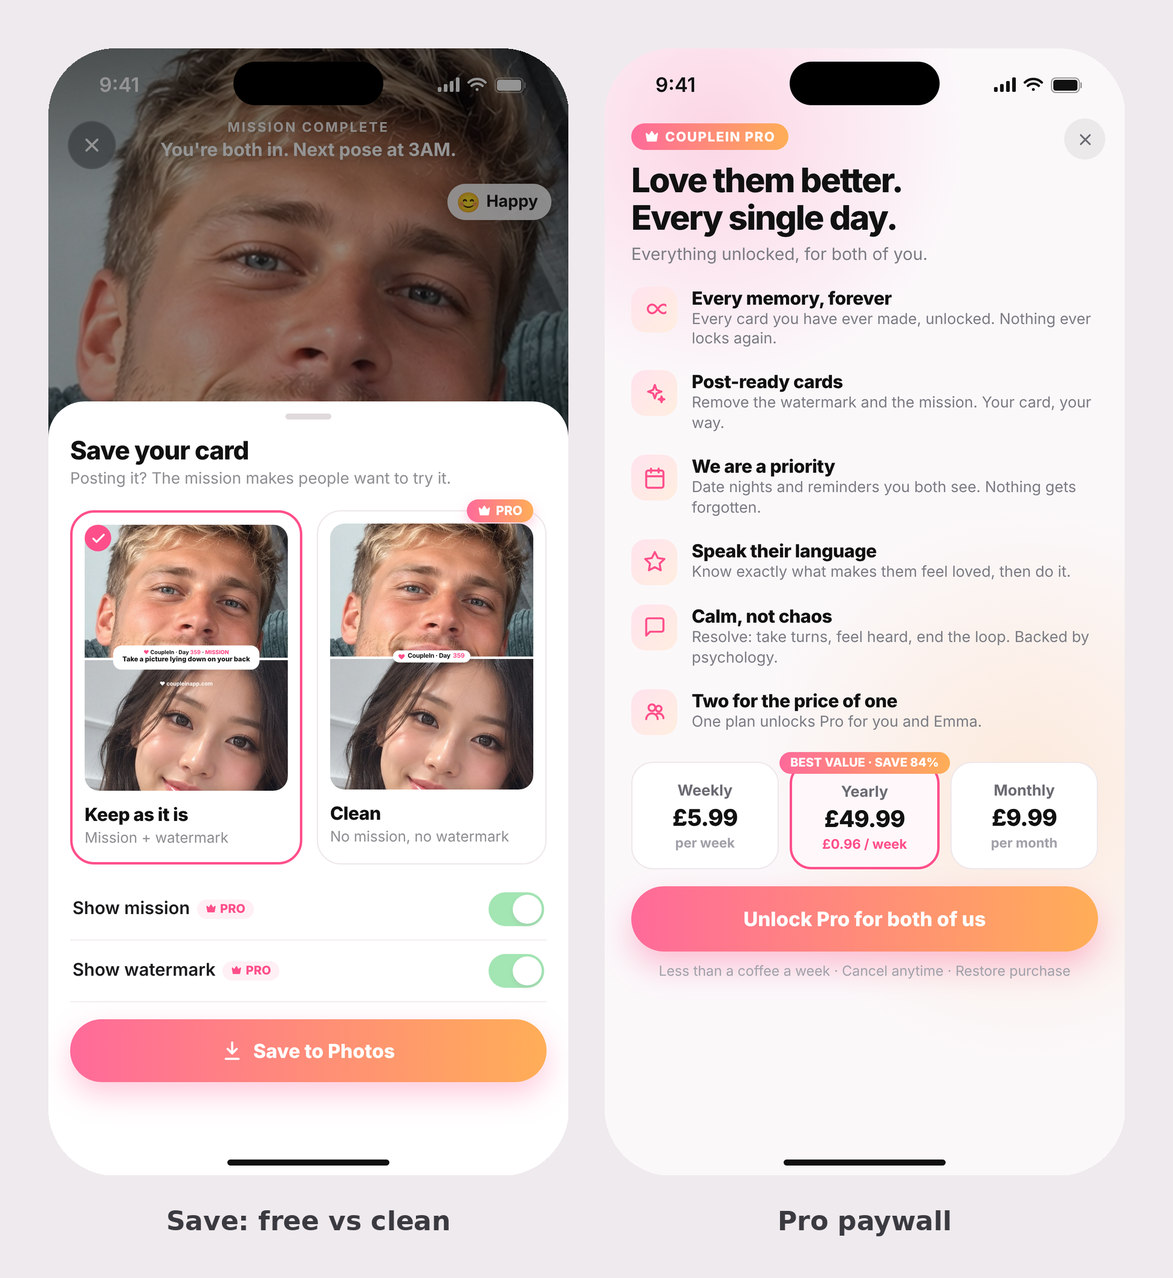
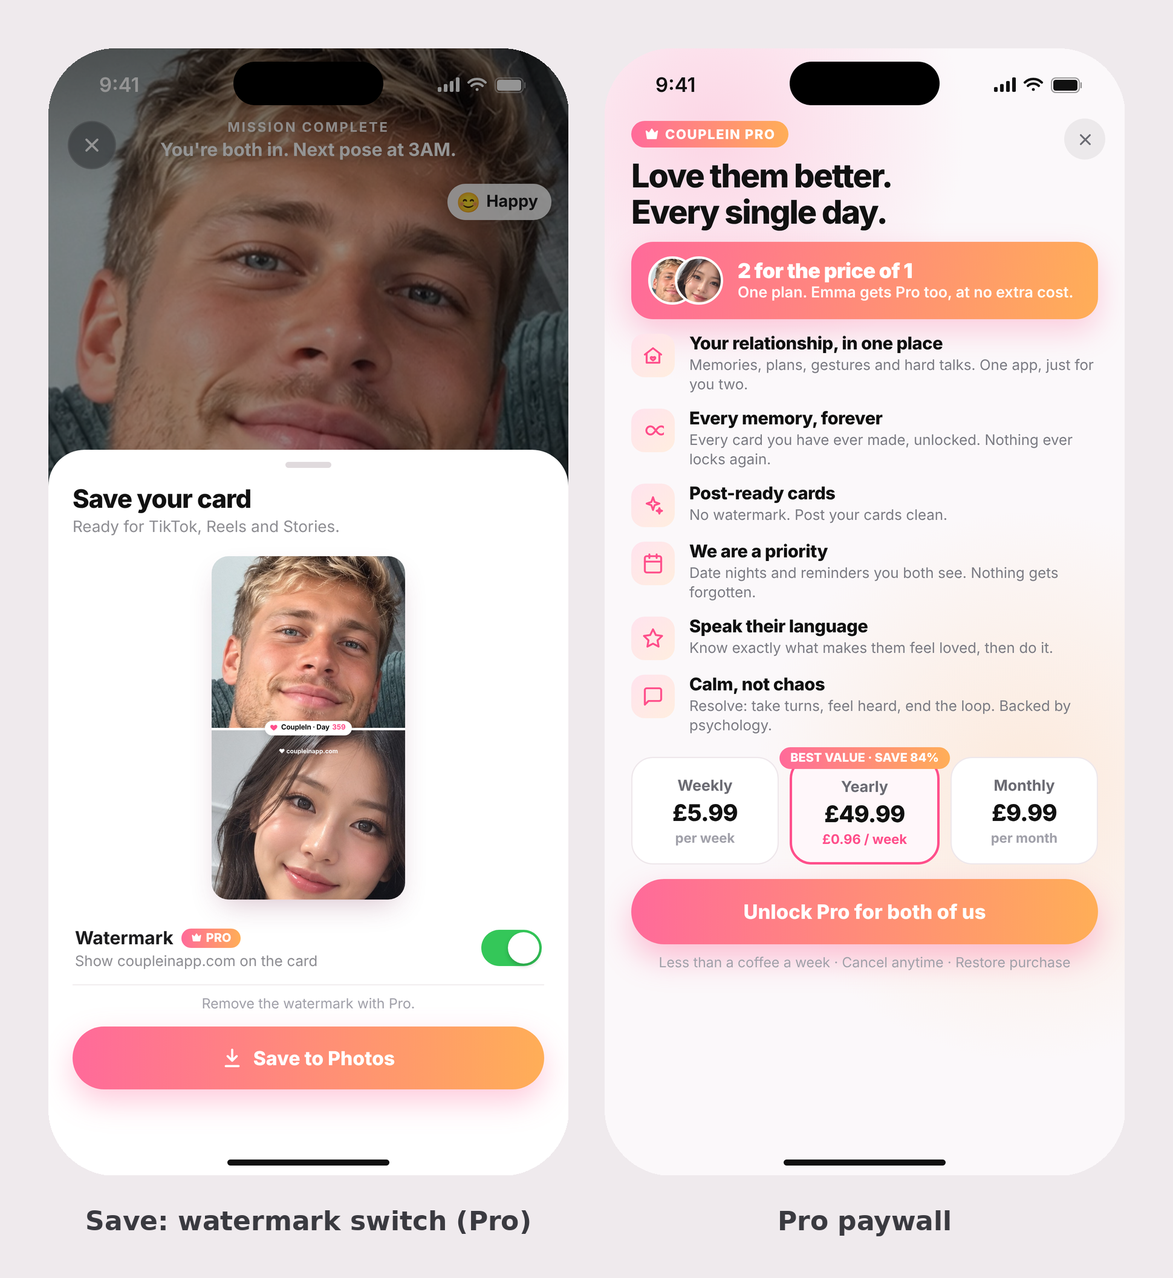
Final findings: Snapchat-style mission bar (camera only), watermark-only Save switch, paywall v2 (2-for-1, one place), Bond merged into developer spec; remove superseded files
Claude-Session: https://claude.ai/code/session_01437rANtd5MAYdKDkxZsNAs

diff --git a/final-plan/Final-Plan-Developer.md b/final-plan/Final-Plan-Developer.md
@@ -14,7 +14,7 @@ Mission is the MVP: one pose a day, both partners send a selfie, a 3-2-1 reveal 
 - Save card and "Who did it better?" (opens the share sheet).
 - A Week 1 video generated on the phone after the 7th completed pair.
 - Photos stored on the phone, last 14 days viewable on Free, with a short-lived server relay to deliver photos between phones.
-- Gated placeholder pages for Calendar, Brownies and Resolve, and a redesigned pricing page.
+- Bond, the free daily-question page (section 8). Gated placeholder pages for Calendar, Brownies and Resolve, and a redesigned pricing page.
 
 **Cut from the MVP (do not build)**
 
@@ -29,7 +29,7 @@ Terms: **Relationship Day Count** is days since the start date entered by the fi
 
 Mission replaces Mood Sync as the centre of the app and is a free feature (with Bond, below), with no limit on daily use (the habit is the product). The only thing gated is viewing old photos: Free can open the last 14 days; anything older is Pro. The app opens on the camera, or on today's card if today's selfie is already sent.
 
-**Tab bar (left to right):** Calendar (Pro), Bond (free), Mission (free, centre, raised camera button), Brownies (Pro), Resolve (Pro). Settings moves out of the tab bar to a gear icon at the top right of every screen. Pro tabs keep the pink lock badge. The Mission (today's pose, camera, reveal) lives in the centre Mission button. **Bond** is a free page: a daily question, an "Ask another" tab with category chips (Fun, Go deeper, Would you rather, Our future, Memories), and a reveal where both partners' typed answers (200 characters) show together once both have answered. No chat, no history in v1. Question bank spec: see the "CoupleIn Bond: Question Bank" doc.
+**Tab bar (left to right):** Calendar (Pro), Bond (free), Mission (free, centre, raised camera button), Brownies (Pro), Resolve (Pro). Settings moves out of the tab bar to a gear icon at the top right of every screen. Pro tabs keep the pink lock badge. The Mission (today's pose, camera, reveal) lives in the centre Mission button. **Bond** is a free page: a daily question, an "Ask another" tab with category chips (Fun, Go deeper, Would you rather, Our future, Memories), and a reveal where both partners' typed answers (200 characters) show together once both have answered. No chat, no history in v1. Full Bond spec and screens in section 8. Question bank spec: see the "CoupleIn Bond: Question Bank" doc.
 
 | Area | Free | Pro |
 | --- | --- | --- |
@@ -49,18 +49,18 @@ Mission replaces Mood Sync as the centre of the app and is a free feature (with 
 
 Redesign the pricing page to show all three plans, with Yearly highlighted. **Open:** whether Pro is per person or per couple (recommended: per couple).
 
-**Pro paywall.** Built as an offer so good that not buying feels silly. Header pill "COUPLEIN PRO", title "Love them better. Every single day.", subtitle "Everything unlocked, for both of you." Then the value stack, each with an icon, a bold line and one sentence:
+**Pro paywall.** Built as an offer so good that not buying feels silly. Header pill "COUPLEIN PRO", title "Love them better. Every single day." Directly under the title, the most visible element on the page: a full-width pink banner **"2 for the price of 1 · One plan. [Partner] gets Pro too, at no extra cost."** with both partners' profile photos. Then the value stack, each with an icon, a bold line and one sentence:
 
-1. **Every memory, forever.** Every card you have ever made, unlocked. Nothing ever locks again.
-2. **Post-ready cards.** Remove the watermark and the mission. Your card, your way.
-3. **We are a priority.** Date nights and reminders you both see. Nothing gets forgotten. (Calendar)
-4. **Speak their language.** Know exactly what makes them feel loved, then do it. (Brownies)
-5. **Calm, not chaos.** Resolve: take turns, feel heard, end the loop. Backed by psychology.
-6. **Two for the price of one.** One plan unlocks Pro for you and your partner.
+1. **Your relationship, in one place.** Memories, plans, gestures and hard talks. One app, just for you two.
+2. **Every memory, forever.** Every card you have ever made, unlocked. Nothing ever locks again.
+3. **Post-ready cards.** No watermark. Post your cards clean.
+4. **We are a priority.** Date nights and reminders you both see. Nothing gets forgotten. (Calendar)
+5. **Speak their language.** Know exactly what makes them feel loved, then do it. (Brownies)
+6. **Calm, not chaos.** Resolve: take turns, feel heard, end the loop. Backed by psychology.
 
-Plans side by side: Weekly £5.99, **Yearly £49.99** (pre-selected, tag "BEST VALUE · SAVE 84%", "£0.96 / week"), Monthly £9.99. Button "Unlock Pro for both of us". Small print "Less than a coffee a week · Cancel anytime · Restore purchase". Rules: no unverified statistics on this screen (add real reviews and couple counts once they exist); the Week 1 video is not part of the offer for now; "Two for the price of one" and "for both of us" depend on Pro being per couple (open item 2).
+Plans side by side: Weekly £5.99, **Yearly £49.99** (pre-selected, tag "BEST VALUE · SAVE 84%", "£0.96 / week"), Monthly £9.99. Button "Unlock Pro for both of us". Small print "Less than a coffee a week · Cancel anytime · Restore purchase". Rules: no unverified statistics on this screen (add real reviews and couple counts once they exist); the Week 1 video is not part of the offer for now; "2 for the price of 1" and "for both of us" depend on Pro being per couple (open item 2).
 
-![Save sheet (free vs clean) and the Pro paywall](images/save-and-paywall.png)
+![Save sheet (watermark switch, Pro) and the Pro paywall](images/save-and-paywall.png)
 
 **Gender at sign-up.** Asked on the name step, only to choose which placeholder is shown on the locked tabs. Options: Woman, Man, Prefer not to say (neutral version, shows either). The field is optional.
 
@@ -138,13 +138,13 @@ The promise made before any photo is taken: neither partner can see the other's 
 
 **Camera screen.** Full screen, tab bar hidden, X at top-left (only after the first selfie is sent), front camera, saved photo not mirrored. Layout follows the "First selfie" mock below: the photo fills the top half, the white line carries a "Day N together" pill, the partner's panel (locked, or invite) sits below.
 
-**Mission screen: three states.** The centre Mission tab opens straight into this full-screen camera. No tab bar, no header bar: the camera runs edge to edge. Your live camera fills the top half, the partner's half fills the bottom, the white line between them carries the "CoupleIn · Day N" pill. Top-left X (back to the app), top-right flip camera (becomes Retake after the shot), today's mission written across the top ("Today's mission" + the pose, for example "Take a picture lying down on your back."). Bottom row in every camera state: "Our cards" button (bottom-left: a clean stacked-cards icon in a round button with the label "Our cards", same style as Flip; opens the gallery), shutter (centre), 5s timer (bottom-right, labelled "Timer").
+**Mission screen: three states.** The centre Mission tab opens straight into this full-screen camera. No tab bar, no header bar: the camera runs edge to edge. Your live camera fills the top half, the partner's half fills the bottom, the white line between them carries the "CoupleIn · Day N" pill. Top-left X (back to the app), top-right flip camera (becomes Retake after the shot), today's mission shown as a Snapchat-style caption bar across the live camera (see Mission on the camera). Bottom row in every camera state: "Our cards" button (bottom-left: a clean stacked-cards icon in a round button with the label "Our cards", same style as Flip; opens the gallery), shutter (centre), 5s timer (bottom-right, labelled "Timer").
 
 1. **Partner has not sent.** Partner half is a soft pink-to-peach gradient (never black) with the partner's profile photo in a gradient ring, "Emma hasn't sent hers yet", "Go first. She can't see yours until she sends hers." and a white "Nudge Emma" button (sends a push; limit one nudge per 3 hours).
 2. **Partner has sent.** Partner half shows her photo heavily blurred with a frosted lock: "Emma sent hers" and "Send yours to reveal it · 8:14 AM". The blur is a local placeholder; the real photo is only released by the relay after you send (section 6).
 3. **Both sent (revealed, after the 3-2-1 countdown).** Both photos clean with their captions. Top reads "Mission complete / You're both in. Next pose at 3AM." Actions sit in a white strip below the photos and never cover them: Our cards icon, Save, Who did it better?.
 
-![Mission screen: she hasn't sent, she has sent with the timer on, after the shot (Retake / Send), both sent, and Our cards](images/mission-screens.png)
+![Mission screen: she hasn't sent, she has sent with the timer on, after the shot (mission gone, Retake / Send), both sent, and Our cards](images/mission-screens.png)
 
 **Retake.** After the shutter, the camera freezes on the photo and the controls change: the flip button at the top-right becomes a white **Retake** button, and the shutter becomes a pink **Send** button (arrow). Retake goes back to the live camera and discards the photo; retakes are unlimited before sending. After sending, a "Retake" link stays available until the partner has sent: the new photo replaces the old one on the relay and the old copy is deleted. Once both have sent (the reveal has happened) the photo is final. The timer setting, caption, mood and pose stay the same across retakes.
 
@@ -157,7 +157,11 @@ The promise made before any photo is taken: neither partner can see the other's 
 
 **Field of view (not too close).** Open the front camera at its widest setting: on iPhone use the widest available zoom factor of the front camera (the "zoomed out" view on iPhone 11 and later), on Android pick the widest front lens / minimum zoom ratio in CameraX. Never default to a cropped or zoomed view, and never crop the photo to fit the half-screen; fill the frame from the widest image. Optional: on-device face detection shows a small "Move the phone back a little" hint if a face fills more than about 60% of the frame (hint only, never blocks the shutter). For poses that need distance, the 5s timer is the answer.
 
-**Pose prompt.** Written across the top of the live camera under "Today's mission", for example "Take a picture lying down on your back." The pose stays at the top of the camera and is not copied into the caption (the caption is the user's own, optional). The same prompt is in the daily notification.
+**Mission on the camera (Snapchat-style).** Today's mission is shown only while the user is taking the picture, as a Snapchat-style caption bar across the live camera: full width, black at about 50% opacity, white centred text, for example "🎯 Take a picture lying down on your back". It sits just under the X and flip buttons so it covers as little of the face as possible. The same text is in the daily notification.
+
+- It is part of the camera screen only. It is **never** in the photo, never on the card, and never on the share image.
+- It disappears the moment the shutter fires (or the 5s timer reaches zero) and stays hidden on the Retake / Send preview. Retake brings it back with the live camera.
+- Because the mission is never on the card, there is nothing to remove when saving. The only thing a user can turn off when saving is the watermark (Pro).
 
 **5-second timer (hands-free). An optional tap, never automatic.** Many poses need both hands or the phone held at a distance, so the camera has a round "5s" timer button at the bottom-right, opposite Our cards, easy to reach with the thumb. The user chooses, every time, whether to use it. It is OFF by default and normal photos are unchanged: tap the shutter, photo is taken instantly.
 
@@ -178,20 +182,15 @@ After the photo the timer switches itself back off, so the next photo is a norma
 **Share card.** 1080 x 1920 (9:16) PNG, built on the phone when Save or Share is tapped, never stored. Your selfie on top, partner's below, an 18px white line between. Designed for TikTok, Reels and Stories, the number one way the app spreads:
 
 - **Safe zone.** Those apps cover the top ~12%, the bottom ~22% and the right edge from ~40% to ~78% of the frame with their buttons and captions. Nothing important goes there.
-- **Mission badge (free).** A white rounded badge centred on the white line: "♥ CoupleIn · Day N · MISSION" on the first row, the mission in bold below ("Take a picture lying down on your back"). The centre of the frame is never covered by any app, and the mission is the hook that makes viewers want to try it. Because it sits across the line it only touches the chin of the top photo and the hair of the bottom one, never the faces. Use on-device face detection: if the badge would cover a face, shrink it to one line.
-- **Watermark (free).** "♥ coupleinapp.com" in small white text just under the badge.
+- **Day pill.** The white "♥ CoupleIn · Day N" pill sits in the centre of the white line on every card, free and Pro. The centre is never covered by any app.
+- **Watermark (free).** "♥ coupleinapp.com" in small white text just under the Day pill. Pro users can turn it off.
 - **Caption + mood.** One pill per photo, left-aligned: top photo about 15% from the top, bottom photo just above the bottom safe line. Only shown if added.
-- **Clean (Pro).** Mission and watermark are two separate Pro switches: either one or both can be removed; the plain "CoupleIn · Day N" pill stays on the line.
-- The camera's own overlays (X, flip, timer, the mission text at the top of the camera) are never part of the photo or the card. The badge is drawn fresh when the card is exported.
+- **No mission on the card.** The mission only appears on the live camera and is gone once the photo is taken.
+- The camera's own overlays (X, flip, timer, the mission bar) are never part of the photo or the card.
 
-![Share card, free vs Pro, with the TikTok / Reels / Stories covered areas in pink](images/share-card-safe-zones.png)
+![Share card, free with watermark vs Pro without, with the TikTok / Reels / Stories covered areas in pink](images/share-card-safe-zones.png)
 
-**Save sheet.** Tapping Save opens "Save your card" with a live preview of the card and two switches underneath:
-
-- **Mission** (show today's mission on the card), on by default.
-- **Watermark** (show coupleinapp.com), on by default.
-
-The two switches are **independent of each other**: Pro users can turn off the mission only, the watermark only, or both, and the preview updates instantly. **Both switches are Pro.** Free users see both on, each with a PRO tag; tapping either one opens the paywall, and the card is saved with the mission and the watermark. Small line under the switches: "Turn either one off with Pro. They work separately." Button: "Save to Photos". The same sheet appears before sharing from Who did it better?. The app remembers each Pro user's last choice for next time.
+**Save sheet.** Tapping Save opens "Save your card" ("Ready for TikTok, Reels and Stories") with a live preview of the card and one switch: **Watermark** (show coupleinapp.com on the card), on by default. The switch is **Pro**: Pro users can turn it off and the preview updates instantly; free users see it on with a PRO tag, and tapping it opens the paywall. Line under the switch: "Remove the watermark with Pro." Button: "Save to Photos". The same sheet appears before sharing from Who did it better?. The app remembers each Pro user's last choice. Shown with the paywall in section 2.
 
 **Week 1 video.** Promised on the first reveal screen. Generated on the phone from the first 7 completed pairs (photos are local), about 10 to 15 seconds: each pair cut to a beat with its pose name and "Day N together", ending on a title card with the date range. Delivered when the 7th pair is revealed, with a push: "Your Week 1 video is ready." Free gets it with the watermark and sees "Remove the watermark" as an upgrade. If a couple is slow, send a partial video on day 10 using the pairs that exist.
 
@@ -281,7 +280,91 @@ R2 is preferred because it charges nothing for downloads.
 
 **Analytics (PostHog):** first_selfie_sent, partner_invited, partner_joined, reveal_viewed, card_saved, who_did_it_better_tapped, week1_video_ready, paywall_viewed, plan_started.
 
-## 8. Open items and build checklist
+## 8. Bond (free page)
+
+Bond is the second free feature, next to Mission. Partners answer the same question in text and see each other's answers together once both have answered. There is no chat. The fun comes from good questions and quick reactions (Love, Same, Haha). The whole feature is one loop: ask, answer privately, reveal together, react.
+
+Cut from v1: chat, answer history, double-choice taps, answer matching, a Sunday game, a Spicy category.
+
+**Where it lives.** Bond is the second tab (Calendar (Pro), **Bond**, Mission, Brownies (Pro), Resolve (Pro)). The page header reads "Bond" with the subtitle "Get to know [Partner], every day" and the Settings gear at the top right.
+
+![Bond screens: Today, Answer sheet, Reveal, Ask another](images/bond-screens.png)
+
+| Screen | What it shows | Main action |
+| --- | --- | --- |
+| 1. Today | Segmented control ("Today's question" / "Ask another"). Pink-bordered card with a category chip, the question, and the partner's answer blurred and locked. Below it, an "[Partner] asked you" row for questions the partner sent. | "Answer to see [Partner]'s" |
+| 2. Answer sheet | Bottom sheet "Your answer" with the question, a text box (200 characters, live counter) and a note that the partner has answered. | "Send and see [Partner]'s" |
+| 3. Reveal | Partner's answer and yours, each with reaction chips Love, Same, Haha. A "Both answered" label. A "Want more tonight? Ask another" card at the bottom. | Tap a reaction |
+| 4. Ask another | Chips: Fun, Go deeper, Would you rather, Our future, Memories. A card with one question from the chosen chip and a refresh icon. Below it, "Sent to [Partner] today" with each question's state (Waiting, Both answered). | "Answer and ask [Partner]" |
+
+**Today.** One daily question, the same for both partners, day-agnostic. It changes at 3AM in the couple's shared timezone, the same reset as the Mission pose.
+
+**Answer sheet.** Text only, 200 characters, no empty answers. Once sent, an answer cannot be edited. Placeholder: "Write it how you'd say it to [Partner]".
+
+**Ask another.** The user picks a chip, sees a question, can tap refresh for the next unseen one in that chip, and sends it by answering it. The partner gets it in their "[Partner] asked you" row. Cap: 3 open sent questions per couple at a time (to confirm).
+
+**Rules**
+
+- **Reveal is mutual.** Neither partner sees the other's answer until they have sent their own.
+- **Answers.** Typed text only, 200 characters max, final once sent. Would-you-rather questions are worded so the answer is a typed sentence ("Would you rather we X or Y, and why?").
+- **Reactions.** Love, Same, Haha. One per answer per person, changeable. The partner sees a badge ("[Partner] loved this").
+- **Starting.** Available once the user has sent their first Mission selfie and finished onboarding. The partner does not need to be linked yet.
+- **Partner not joined.** The user can answer; the reveal stays locked until the partner joins and answers.
+- **History.** None in v1. Once both have answered and reacted, the question leaves Today.
+- **Free.** Bond is free for everyone, with no limits.
+
+**Question bank.** Questions come from a large pre-written bank on the server (MongoDB). No AI calls at runtime, so it costs nothing to run. The bank is being written in daily batches of 100 (20 per category) in the doc "CoupleIn Bond: Question Bank".
+
+| Category / chip | Style |
+| --- | --- |
+| Fun | Playful, specific, makes people laugh |
+| Go deeper | Honest but safe, never accusatory |
+| Would you rather | Phrased so the answer is typed, with a "why" |
+| Our future | Concrete shared scenes, not abstract goals |
+| Memories | Specific moments with the partner |
+
+The daily question can come from any category; "Ask another" serves from the chosen chip.
+
+- **Never repeating.** Each couple stores only the IDs of questions they have seen (about 20 to 30 KB at 5,000 questions). Serving always picks the next unseen question.
+- **Size.** 5,000 questions is about 400 to 500 KB of text. The app fetches batches of about 20 per category and caches them, so new questions need no app update.
+- **Running out.** At about 3 questions a day, 3,000 questions last about 2.7 years. After that the oldest return as "Revisit: you answered this a year ago. Has your answer changed?".
+- **Question rules.** Typed answer, gender-neutral, any relationship stage and long-distance, no sexual content, under about 18 words, no generic questions.
+- **Later (not v1).** Couples write their own questions; AI-generated questions saved to the bank.
+
+**Notifications**
+
+| Trigger | Push |
+| --- | --- |
+| New daily question (suggested 7pm local) | "Today's question is here" |
+| Partner answered, user has not | "[Partner] answered. Your turn." |
+| Both answered | "Both answered. See each other's." |
+| Partner sent an "Ask another" question | "[Partner] asked you something" |
+| Partner reacted to the user's answer | "[Partner] loved your answer" (or Same, Haha) |
+
+**Data (per couple)**
+
+- Question bank: id, text, category, active flag.
+- Seen IDs: list of question IDs already served to this couple.
+- Daily question: date, question id.
+- Answers: question id, user id, text (max 200), sent time.
+- Reactions: answer id, user id, type (love, same, haha).
+- Sent questions: question id, sender, state (waiting, both answered).
+
+**Edge cases**
+
+| Case | Behaviour |
+| --- | --- |
+| Partner never answers | User's answer stays sent, reveal stays locked, no expiry in v1 |
+| Both answer at the same moment | Both go straight to Reveal |
+| Different timezones | Daily question changes at 3AM in the shared timezone |
+| Bank exhausted for a chip | Oldest questions return as "Revisit" |
+| Offline | Answer saved on the phone and sent when back online |
+| Partner unlinked | Open questions and answers are removed with the link |
+| Empty or over 200 characters | Send button disabled |
+
+**Bond open items:** cap of 3 open "Ask another" questions; notification time (7pm suggested); what the locked reveal says when the partner has not joined (not drawn yet); whether answers are stored on the server and for how long.
+
+## 9. Open items and build checklist
 
 **To confirm with the founder before building**
 
@@ -304,3 +387,7 @@ R2 is preferred because it charges nothing for downloads.
 - Mission screen in three states with Retake/Send preview, plus the Our cards gallery from local storage, last 14 days open, older cards blurred on-device with a lock and a paywall tap, one continuous grid for Pro.
 - Load the pose list from Final-Plan-Pose-List.xlsx (Pose 1 to 365, no dates).
 - Test with two accounts on two phones, one set to another timezone, covering: both send, one sends, partner never joins, late code entry, app closed mid-countdown, upload failure, 14-day lock.
+- Mission bar on the live camera (Snapchat style), removed the moment the photo is taken; never drawn on the photo or card.
+- Share card export with the social safe zone, the Day pill and the watermark; Save sheet with the single Watermark switch (Pro).
+- Pro paywall with the 2-for-1 banner and the six-line value stack.
+- Bond (section 8): Today, Answer sheet, Reveal, Ask another, question bank, notifications.

diff --git a/final-plan/README.md b/final-plan/README.md
@@ -1,9 +1,9 @@
 # Final Plan (Mission MVP)
 
-- `Final-Plan-Developer.md` : spec for the developer (no marketing).
+- `Final-Plan-Developer.md` : the single spec for the developer (no marketing). Everything that needs building is here, with all screens: navigation and Pro paywall, daily pose rules, onboarding, the Mission camera (three states, Snapchat-style mission bar, Retake / Send, 5s timer, mood and caption), share card and Save sheet, Our cards gallery, storage and relay, notifications, and Bond (section 8).
 - `Final-Plan-Founder.md` : founder's plan (decisions, marketing, economics, risks, to-do).
-- `Final-Plan-Bond.md` : spec for Bond, the free daily-question page (developer).
+- `Final-Plan-Pose-List.xlsx` / `.md` : the 365 poses.
 - `bond-design/` : source files of the Bond design canvas (4 screens).
-- `images/` : locked-tab placeholders (women/men) and reference screens, all showing the current tab bar (Calendar, Bond, Mission centre, Brownies, Resolve).
+- `images/` : every image used in the developer spec.
 
 These supersede all earlier files in this repo.
